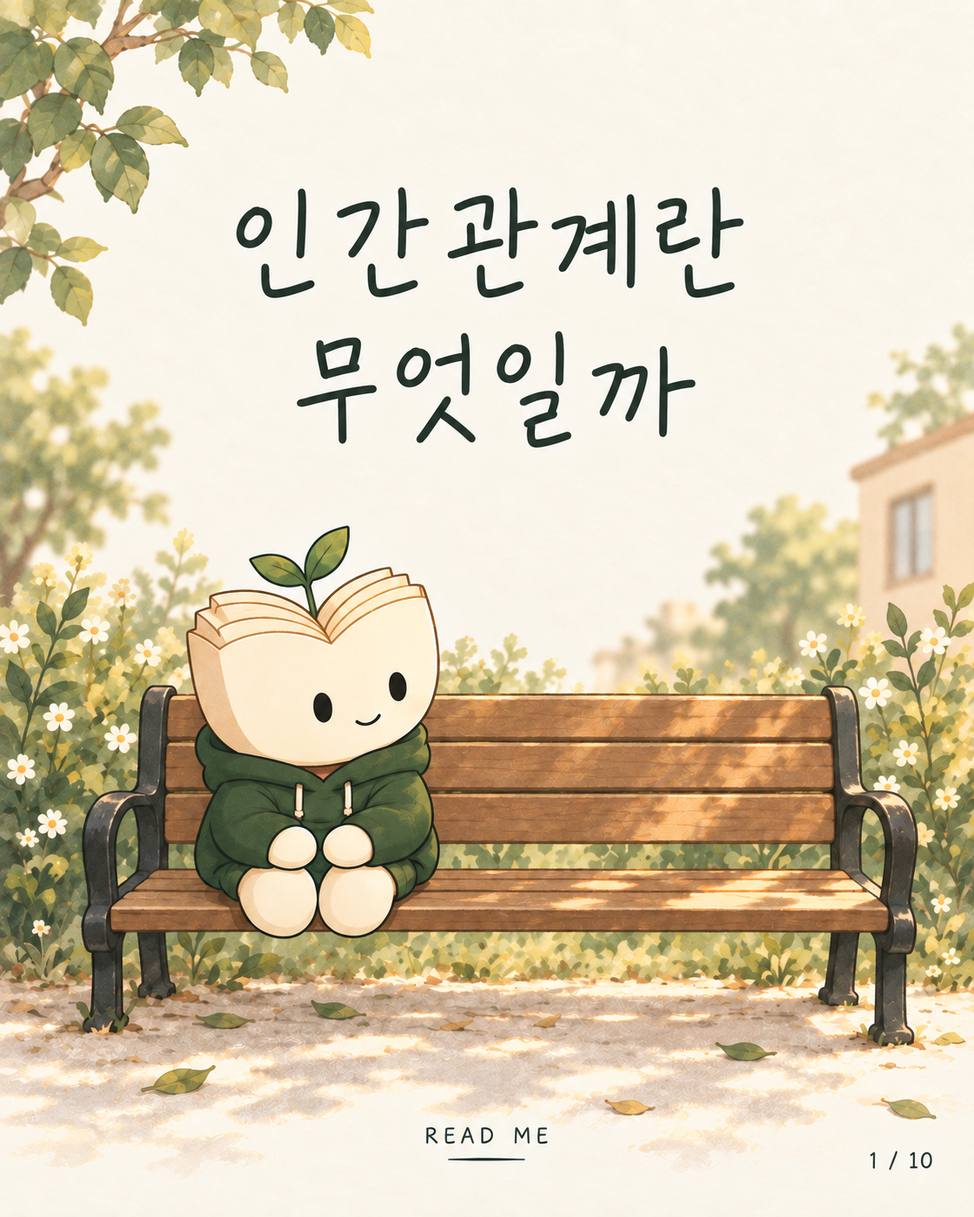
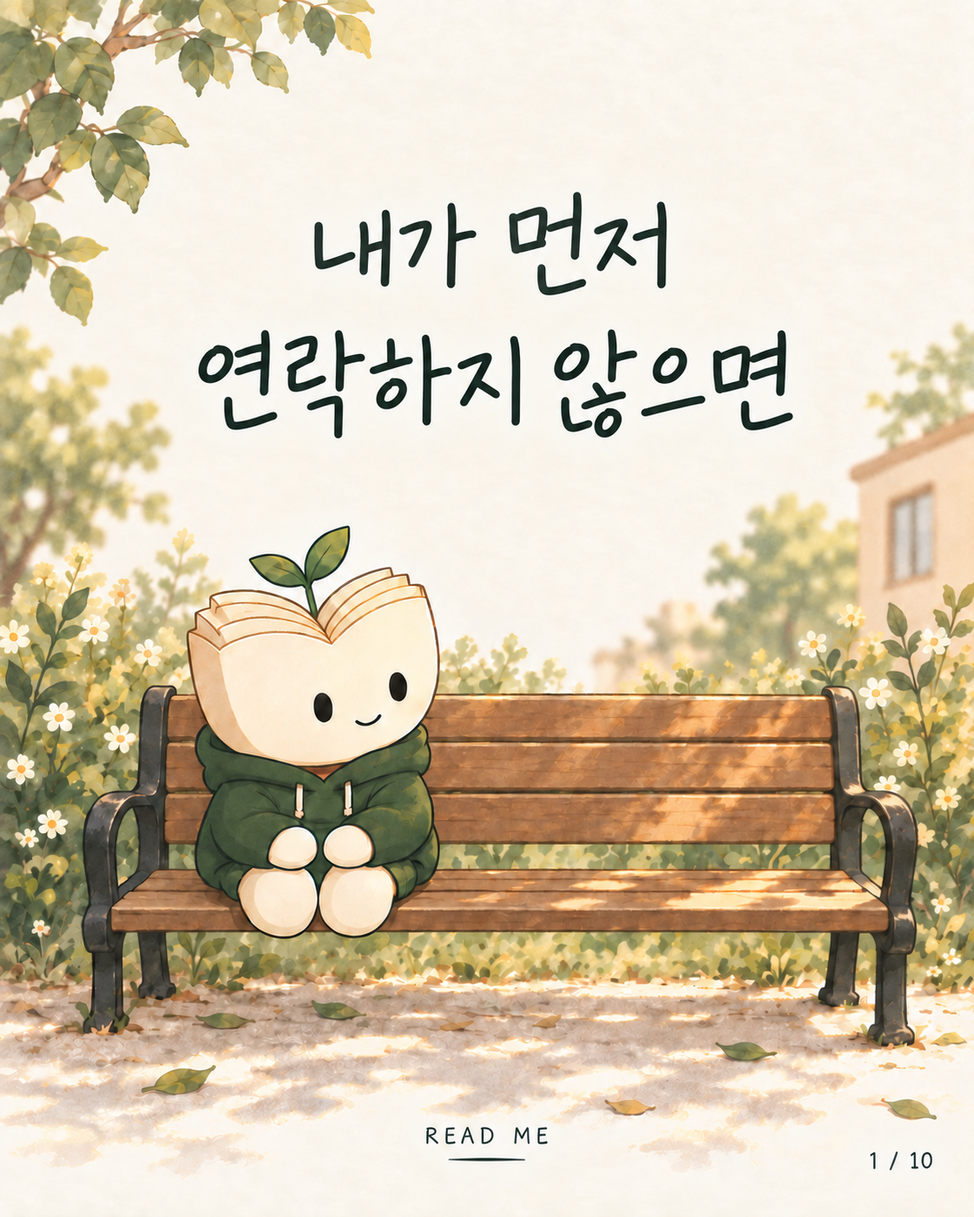
UPDATE. 인스타툰 1편 표지와 미리보기 제목 수정

diff --git a/docs/social/전체-미리보기.html b/docs/social/전체-미리보기.html
@@ -1,4 +1,4 @@
-<!doctype html><html lang="ko"><head><meta charset="utf-8"><meta name="viewport" content="width=device-width,initial-scale=1"><title>READ ME 인스타툰 최종본</title><style>:root{--cream:#f7f3e7;--sand:#eadfc6;--sage:#9bae8f;--forest:#5b6b57;--ink:#3b3a34;--paper:#fffdf7;--muted:#716f65;--line:rgba(59,58,52,.14)}*{box-sizing:border-box}body{margin:0;background:var(--cream);color:var(--ink);font-family:"Noto Sans KR",sans-serif}main{max-width:1120px;margin:auto;padding:32px 24px}a{color:var(--forest);overflow-wrap:anywhere}nav{display:flex;flex-wrap:wrap;gap:12px}nav a{padding:10px;border:1px solid var(--line)}section{margin-top:48px}h1,h2{word-break:keep-all}.grid{display:grid;grid-template-columns:repeat(3,minmax(0,1fr));gap:16px}img{display:block;width:100%;height:auto}@media(max-width:820px){.grid{grid-template-columns:repeat(2,minmax(0,1fr))}}@media(max-width:430px){main{padding:20px 12px}.grid{grid-template-columns:1fr}}[hidden]{display:none!important}nav a[aria-current="page"]{background:var(--forest);color:var(--paper)}nav a:focus-visible{outline:2px solid var(--forest);outline-offset:3px}</style></head><body><main><h1>READ ME 인스타툰 최종본</h1><p>기존 1~8편과 7-1~7-5 확장편 · 총 103장. 각 편은 현재 폴더에서 수정합니다.</p><nav aria-label="편 선택"><a href="#1" aria-current="page">01편</a><a href="#2">02편</a><a href="#3">03편</a><a href="#4">04편</a><a href="#5">05편</a><a href="#6">06편</a><a href="#7">07편</a><a href="#7-1">7-1편</a><a href="#7-2">7-2편</a><a href="#7-3">7-3편</a><a href="#7-4">7-4편</a><a href="#7-5">7-5편</a><a href="#8">08편</a></nav><section id="1"><h2>01-인간관계</h2><p>10장 · <a href="01-인간관계/미리보기.html">이 편 보기</a></p><div class="grid"><a href="01-인간관계/01.png?v=f6530659d1"><img src="01-인간관계/01.png?v=f6530659d1" alt="01-인간관계 1장" loading="lazy"></a><a href="01-인간관계/02.png?v=2af6beccf6"><img src="01-인간관계/02.png?v=2af6beccf6" alt="01-인간관계 2장" loading="lazy"></a><a href="01-인간관계/03.png?v=92ff636abc"><img src="01-인간관계/03.png?v=92ff636abc" alt="01-인간관계 3장" loading="lazy"></a><a href="01-인간관계/04.png?v=a4715f626d"><img src="01-인간관계/04.png?v=a4715f626d" alt="01-인간관계 4장" loading="lazy"></a><a href="01-인간관계/05.png?v=0827a50b40"><img src="01-인간관계/05.png?v=0827a50b40" alt="01-인간관계 5장" loading="lazy"></a><a href="01-인간관계/06.png?v=0fdcc19c5c"><img src="01-인간관계/06.png?v=0fdcc19c5c" alt="01-인간관계 6장" loading="lazy"></a><a href="01-인간관계/07.png?v=472e8e2341"><img src="01-인간관계/07.png?v=472e8e2341" alt="01-인간관계 7장" loading="lazy"></a><a href="01-인간관계/08.png?v=42a75f7eb0"><img src="01-인간관계/08.png?v=42a75f7eb0" alt="01-인간관계 8장" loading="lazy"></a><a href="01-인간관계/09.png?v=77522bc16a"><img src="01-인간관계/09.png?v=77522bc16a" alt="01-인간관계 9장" loading="lazy"></a><a href="01-인간관계/10.png?v=ebeded8296"><img src="01-인간관계/10.png?v=ebeded8296" alt="01-인간관계 10장" loading="lazy"></a></div></section><section id="2" hidden><h2>02-결이맞는사람</h2><p>9장 · <a href="02-결이맞는사람/미리보기.html">이 편 보기</a></p><div class="grid"><a href="02-결이맞는사람/01.png?v=264bd3b8b0"><img src="02-결이맞는사람/01.png?v=264bd3b8b0" alt="02-결이맞는사람 1장" loading="lazy"></a><a href="02-결이맞는사람/02.png?v=4cbba1f130"><img src="02-결이맞는사람/02.png?v=4cbba1f130" alt="02-결이맞는사람 2장" loading="lazy"></a><a href="02-결이맞는사람/03.png?v=fdcf5b74c9"><img src="02-결이맞는사람/03.png?v=fdcf5b74c9" alt="02-결이맞는사람 3장" loading="lazy"></a><a href="02-결이맞는사람/04.png?v=07fdb82af9"><img src="02-결이맞는사람/04.png?v=07fdb82af9" alt="02-결이맞는사람 4장" loading="lazy"></a><a href="02-결이맞는사람/05.png?v=9de6945f77"><img src="02-결이맞는사람/05.png?v=9de6945f77" alt="02-결이맞는사람 5장" loading="lazy"></a><a href="02-결이맞는사람/06.png?v=71379b246e"><img src="02-결이맞는사람/06.png?v=71379b246e" alt="02-결이맞는사람 6장" loading="lazy"></a><a href="02-결이맞는사람/07.png?v=acae4ace5d"><img src="02-결이맞는사람/07.png?v=acae4ace5d" alt="02-결이맞는사람 7장" loading="lazy"></a><a href="02-결이맞는사람/08.png?v=5f58d21de6"><img src="02-결이맞는사람/08.png?v=5f58d21de6" alt="02-결이맞는사람 8장" loading="lazy"></a><a href="02-결이맞는사람/09.png?v=448ca64fa5"><img src="02-결이맞는사람/09.png?v=448ca64fa5" alt="02-결이맞는사람 9장" loading="lazy"></a></div></section><section id="3" hidden><h2>03-같이나아갈사람</h2><p>6장 · <a href="03-같이나아갈사람/미리보기.html">이 편 보기</a></p><div class="grid"><a href="03-같이나아갈사람/01.png?v=ed73741b11"><img src="03-같이나아갈사람/01.png?v=ed73741b11" alt="03-같이나아갈사람 1장" loading="lazy"></a><a href="03-같이나아갈사람/02.png?v=788a7e2821"><img src="03-같이나아갈사람/02.png?v=788a7e2821" alt="03-같이나아갈사람 2장" loading="lazy"></a><a href="03-같이나아갈사람/03.png?v=17601be4a8"><img src="03-같이나아갈사람/03.png?v=17601be4a8" alt="03-같이나아갈사람 3장" loading="lazy"></a><a href="03-같이나아갈사람/04.png?v=f4704627a1"><img src="03-같이나아갈사람/04.png?v=f4704627a1" alt="03-같이나아갈사람 4장" loading="lazy"></a><a href="03-같이나아갈사람/05.png?v=55ba4e1e06"><img src="03-같이나아갈사람/05.png?v=55ba4e1e06" alt="03-같이나아갈사람 5장" loading="lazy"></a><a href="03-같이나아갈사람/06.png?v=077c74721f"><img src="03-같이나아갈사람/06.png?v=077c74721f" alt="03-같이나아갈사람 6장" loading="lazy"></a></div></section><section id="4" hidden><h2>04-힘이되는사람</h2><p>7장 · <a href="04-힘이되는사람/미리보기.html">이 편 보기</a></p><div class="grid"><a href="04-힘이되는사람/01.png?v=8100d94b91"><img src="04-힘이되는사람/01.png?v=8100d94b91" alt="04-힘이되는사람 1장" loading="lazy"></a><a href="04-힘이되는사람/02.png?v=bfbad25659"><img src="04-힘이되는사람/02.png?v=bfbad25659" alt="04-힘이되는사람 2장" loading="lazy"></a><a href="04-힘이되는사람/03.png?v=6f98d75c57"><img src="04-힘이되는사람/03.png?v=6f98d75c57" alt="04-힘이되는사람 3장" loading="lazy"></a><a href="04-힘이되는사람/04.png?v=b64bd8e8cb"><img src="04-힘이되는사람/04.png?v=b64bd8e8cb" alt="04-힘이되는사람 4장" loading="lazy"></a><a href="04-힘이되는사람/05.png?v=ed8942b510"><img src="04-힘이되는사람/05.png?v=ed8942b510" alt="04-힘이되는사람 5장" loading="lazy"></a><a href="04-힘이되는사람/06.png?v=f673d6f54d"><img src="04-힘이되는사람/06.png?v=f673d6f54d" alt="04-힘이되는사람 6장" loading="lazy"></a><a href="04-힘이되는사람/07.png?v=acf8b9f665"><img src="04-힘이되는사람/07.png?v=acf8b9f665" alt="04-힘이되는사람 7장" loading="lazy"></a></div></section><section id="5" hidden><h2>05-환경의중요성</h2><p>9장 · <a href="05-환경의중요성/미리보기.html">이 편 보기</a></p><div class="grid"><a href="05-환경의중요성/01.png?v=124d4b9f5c"><img src="05-환경의중요성/01.png?v=124d4b9f5c" alt="05-환경의중요성 1장" loading="lazy"></a><a href="05-환경의중요성/02.png?v=54013d81f8"><img src="05-환경의중요성/02.png?v=54013d81f8" alt="05-환경의중요성 2장" loading="lazy"></a><a href="05-환경의중요성/03.png?v=f58ab16eda"><img src="05-환경의중요성/03.png?v=f58ab16eda" alt="05-환경의중요성 3장" loading="lazy"></a><a href="05-환경의중요성/04.png?v=979f421f6f"><img src="05-환경의중요성/04.png?v=979f421f6f" alt="05-환경의중요성 4장" loading="lazy"></a><a href="05-환경의중요성/05.png?v=1b3de04ac8"><img src="05-환경의중요성/05.png?v=1b3de04ac8" alt="05-환경의중요성 5장" loading="lazy"></a><a href="05-환경의중요성/06.png?v=ff394ed652"><img src="05-환경의중요성/06.png?v=ff394ed652" alt="05-환경의중요성 6장" loading="lazy"></a><a href="05-환경의중요성/07.png?v=fe9d3bcd30"><img src="05-환경의중요성/07.png?v=fe9d3bcd30" alt="05-환경의중요성 7장" loading="lazy"></a><a href="05-환경의중요성/08.png?v=44aca42c69"><img src="05-환경의중요성/08.png?v=44aca42c69" alt="05-환경의중요성 8장" loading="lazy"></a><a href="05-환경의중요성/09.png?v=e9567877d0"><img src="05-환경의중요성/09.png?v=e9567877d0" alt="05-환경의중요성 9장" loading="lazy"></a></div></section><section id="6" hidden><h2>06-직접만든이유</h2><p>7장 · <a href="06-직접만든이유/미리보기.html">이 편 보기</a></p><div class="grid"><a href="06-직접만든이유/01.png?v=6f16d05a30"><img src="06-직접만든이유/01.png?v=6f16d05a30" alt="06-직접만든이유 1장" loading="lazy"></a><a href="06-직접만든이유/02.png?v=5da92f9602"><img src="06-직접만든이유/02.png?v=5da92f9602" alt="06-직접만든이유 2장" loading="lazy"></a><a href="06-직접만든이유/03.png?v=ef615db151"><img src="06-직접만든이유/03.png?v=ef615db151" alt="06-직접만든이유 3장" loading="lazy"></a><a href="06-직접만든이유/04.png?v=55a07de5a8"><img src="06-직접만든이유/04.png?v=55a07de5a8" alt="06-직접만든이유 4장" loading="lazy"></a><a href="06-직접만든이유/05.png?v=c209f0e74f"><img src="06-직접만든이유/05.png?v=c209f0e74f" alt="06-직접만든이유 5장" loading="lazy"></a><a href="06-직접만든이유/06.png?v=84f44f9c7f"><img src="06-직접만든이유/06.png?v=84f44f9c7f" alt="06-직접만든이유 6장" loading="lazy"></a><a href="06-직접만든이유/07.png?v=9ae2be7dd7"><img src="06-직접만든이유/07.png?v=9ae2be7dd7" alt="06-직접만든이유 7장" loading="lazy"></a></div></section><section id="7" hidden><h2>07-마음이채워지는대화</h2><p>7장 · <a href="07-마음이채워지는대화/미리보기.html">이 편 보기</a></p><div class="grid"><a href="07-마음이채워지는대화/01.png?v=39b0405240"><img src="07-마음이채워지는대화/01.png?v=39b0405240" alt="07-마음이채워지는대화 1장" loading="lazy"></a><a href="07-마음이채워지는대화/02.png?v=e5f816d622"><img src="07-마음이채워지는대화/02.png?v=e5f816d622" alt="07-마음이채워지는대화 2장" loading="lazy"></a><a href="07-마음이채워지는대화/03.png?v=ae685cedb3"><img src="07-마음이채워지는대화/03.png?v=ae685cedb3" alt="07-마음이채워지는대화 3장" loading="lazy"></a><a href="07-마음이채워지는대화/04.png?v=a63e07f592"><img src="07-마음이채워지는대화/04.png?v=a63e07f592" alt="07-마음이채워지는대화 4장" loading="lazy"></a><a href="07-마음이채워지는대화/05.png?v=4ca097f0b0"><img src="07-마음이채워지는대화/05.png?v=4ca097f0b0" alt="07-마음이채워지는대화 5장" loading="lazy"></a><a href="07-마음이채워지는대화/06.png?v=09a7210a58"><img src="07-마음이채워지는대화/06.png?v=09a7210a58" alt="07-마음이채워지는대화 6장" loading="lazy"></a><a href="07-마음이채워지는대화/07.png?v=7f04851a70"><img src="07-마음이채워지는대화/07.png?v=7f04851a70" alt="07-마음이채워지는대화 7장" loading="lazy"></a></div></section><section id="7-1" hidden><h2>7-1-친한사람에게도-못했던말을-꺼냈다</h2><p>8장 · <a href="7-1-친한사람에게도-못했던말을-꺼냈다/미리보기.html">이 편 보기</a></p><div class="grid"><a href="7-1-친한사람에게도-못했던말을-꺼냈다/01.png?v=64ef2f2fa5"><img src="7-1-친한사람에게도-못했던말을-꺼냈다/01.png?v=64ef2f2fa5" alt="7-1-친한사람에게도-못했던말을-꺼냈다 1장" loading="lazy"></a><a href="7-1-친한사람에게도-못했던말을-꺼냈다/02.png?v=268a2c60f3"><img src="7-1-친한사람에게도-못했던말을-꺼냈다/02.png?v=268a2c60f3" alt="7-1-친한사람에게도-못했던말을-꺼냈다 2장" loading="lazy"></a><a href="7-1-친한사람에게도-못했던말을-꺼냈다/03.png?v=546cfdae7e"><img src="7-1-친한사람에게도-못했던말을-꺼냈다/03.png?v=546cfdae7e" alt="7-1-친한사람에게도-못했던말을-꺼냈다 3장" loading="lazy"></a><a href="7-1-친한사람에게도-못했던말을-꺼냈다/04.png?v=ec3f204fc7"><img src="7-1-친한사람에게도-못했던말을-꺼냈다/04.png?v=ec3f204fc7" alt="7-1-친한사람에게도-못했던말을-꺼냈다 4장" loading="lazy"></a><a href="7-1-친한사람에게도-못했던말을-꺼냈다/05.png?v=fe61a55f8c"><img src="7-1-친한사람에게도-못했던말을-꺼냈다/05.png?v=fe61a55f8c" alt="7-1-친한사람에게도-못했던말을-꺼냈다 5장" loading="lazy"></a><a href="7-1-친한사람에게도-못했던말을-꺼냈다/06.png?v=9ee9529ecf"><img src="7-1-친한사람에게도-못했던말을-꺼냈다/06.png?v=9ee9529ecf" alt="7-1-친한사람에게도-못했던말을-꺼냈다 6장" loading="lazy"></a><a href="7-1-친한사람에게도-못했던말을-꺼냈다/07.png?v=048ae1f4be"><img src="7-1-친한사람에게도-못했던말을-꺼냈다/07.png?v=048ae1f4be" alt="7-1-친한사람에게도-못했던말을-꺼냈다 7장" loading="lazy"></a><a href="7-1-친한사람에게도-못했던말을-꺼냈다/08.png?v=e48b834b40"><img src="7-1-친한사람에게도-못했던말을-꺼냈다/08.png?v=e48b834b40" alt="7-1-친한사람에게도-못했던말을-꺼냈다 8장" loading="lazy"></a></div></section><section id="7-2" hidden><h2>7-2-말하고나서야-내마음을-알았다</h2><p>8장 · <a href="7-2-말하고나서야-내마음을-알았다/미리보기.html">이 편 보기</a></p><div class="grid"><a href="7-2-말하고나서야-내마음을-알았다/01.png?v=459466cc53"><img src="7-2-말하고나서야-내마음을-알았다/01.png?v=459466cc53" alt="7-2-말하고나서야-내마음을-알았다 1장" loading="lazy"></a><a href="7-2-말하고나서야-내마음을-알았다/02.png?v=de228fa564"><img src="7-2-말하고나서야-내마음을-알았다/02.png?v=de228fa564" alt="7-2-말하고나서야-내마음을-알았다 2장" loading="lazy"></a><a href="7-2-말하고나서야-내마음을-알았다/03.png?v=a2d7ab2a9d"><img src="7-2-말하고나서야-내마음을-알았다/03.png?v=a2d7ab2a9d" alt="7-2-말하고나서야-내마음을-알았다 3장" loading="lazy"></a><a href="7-2-말하고나서야-내마음을-알았다/04.png?v=ffc8d2dd8b"><img src="7-2-말하고나서야-내마음을-알았다/04.png?v=ffc8d2dd8b" alt="7-2-말하고나서야-내마음을-알았다 4장" loading="lazy"></a><a href="7-2-말하고나서야-내마음을-알았다/05.png?v=e9c60defa1"><img src="7-2-말하고나서야-내마음을-알았다/05.png?v=e9c60defa1" alt="7-2-말하고나서야-내마음을-알았다 5장" loading="lazy"></a><a href="7-2-말하고나서야-내마음을-알았다/06.png?v=620fa4451c"><img src="7-2-말하고나서야-내마음을-알았다/06.png?v=620fa4451c" alt="7-2-말하고나서야-내마음을-알았다 6장" loading="lazy"></a><a href="7-2-말하고나서야-내마음을-알았다/07.png?v=569dfd7099"><img src="7-2-말하고나서야-내마음을-알았다/07.png?v=569dfd7099" alt="7-2-말하고나서야-내마음을-알았다 7장" loading="lazy"></a><a href="7-2-말하고나서야-내마음을-알았다/08.png?v=41411ef812"><img src="7-2-말하고나서야-내마음을-알았다/08.png?v=41411ef812" alt="7-2-말하고나서야-내마음을-알았다 8장" loading="lazy"></a></div></section><section id="7-3" hidden><h2>7-3-생각이다른데도-대화가편했다</h2><p>8장 · <a href="7-3-생각이다른데도-대화가편했다/미리보기.html">이 편 보기</a></p><div class="grid"><a href="7-3-생각이다른데도-대화가편했다/01.png?v=4daec09531"><img src="7-3-생각이다른데도-대화가편했다/01.png?v=4daec09531" alt="7-3-생각이다른데도-대화가편했다 1장" loading="lazy"></a><a href="7-3-생각이다른데도-대화가편했다/02.png?v=5244f608b3"><img src="7-3-생각이다른데도-대화가편했다/02.png?v=5244f608b3" alt="7-3-생각이다른데도-대화가편했다 2장" loading="lazy"></a><a href="7-3-생각이다른데도-대화가편했다/03.png?v=17dc23714d"><img src="7-3-생각이다른데도-대화가편했다/03.png?v=17dc23714d" alt="7-3-생각이다른데도-대화가편했다 3장" loading="lazy"></a><a href="7-3-생각이다른데도-대화가편했다/04.png?v=2b78159773"><img src="7-3-생각이다른데도-대화가편했다/04.png?v=2b78159773" alt="7-3-생각이다른데도-대화가편했다 4장" loading="lazy"></a><a href="7-3-생각이다른데도-대화가편했다/05.png?v=b54261920a"><img src="7-3-생각이다른데도-대화가편했다/05.png?v=b54261920a" alt="7-3-생각이다른데도-대화가편했다 5장" loading="lazy"></a><a href="7-3-생각이다른데도-대화가편했다/06.png?v=5a5409cac8"><img src="7-3-생각이다른데도-대화가편했다/06.png?v=5a5409cac8" alt="7-3-생각이다른데도-대화가편했다 6장" loading="lazy"></a><a href="7-3-생각이다른데도-대화가편했다/07.png?v=15a74822e1"><img src="7-3-생각이다른데도-대화가편했다/07.png?v=15a74822e1" alt="7-3-생각이다른데도-대화가편했다 7장" loading="lazy"></a><a href="7-3-생각이다른데도-대화가편했다/08.png?v=3c578579ec"><img src="7-3-생각이다른데도-대화가편했다/08.png?v=3c578579ec" alt="7-3-생각이다른데도-대화가편했다 8장" loading="lazy"></a></div></section><section id="7-4" hidden><h2>7-4-쌓아두던책을-펼치게됐다</h2><p>8장 · <a href="7-4-쌓아두던책을-펼치게됐다/미리보기.html">이 편 보기</a></p><div class="grid"><a href="7-4-쌓아두던책을-펼치게됐다/01.png?v=db281463e6"><img src="7-4-쌓아두던책을-펼치게됐다/01.png?v=db281463e6" alt="7-4-쌓아두던책을-펼치게됐다 1장" loading="lazy"></a><a href="7-4-쌓아두던책을-펼치게됐다/02.png?v=2eeb449bf7"><img src="7-4-쌓아두던책을-펼치게됐다/02.png?v=2eeb449bf7" alt="7-4-쌓아두던책을-펼치게됐다 2장" loading="lazy"></a><a href="7-4-쌓아두던책을-펼치게됐다/03.png?v=eb45c9f756"><img src="7-4-쌓아두던책을-펼치게됐다/03.png?v=eb45c9f756" alt="7-4-쌓아두던책을-펼치게됐다 3장" loading="lazy"></a><a href="7-4-쌓아두던책을-펼치게됐다/04.png?v=621b312949"><img src="7-4-쌓아두던책을-펼치게됐다/04.png?v=621b312949" alt="7-4-쌓아두던책을-펼치게됐다 4장" loading="lazy"></a><a href="7-4-쌓아두던책을-펼치게됐다/05.png?v=038d7d4cd8"><img src="7-4-쌓아두던책을-펼치게됐다/05.png?v=038d7d4cd8" alt="7-4-쌓아두던책을-펼치게됐다 5장" loading="lazy"></a><a href="7-4-쌓아두던책을-펼치게됐다/06.png?v=ff6a914471"><img src="7-4-쌓아두던책을-펼치게됐다/06.png?v=ff6a914471" alt="7-4-쌓아두던책을-펼치게됐다 6장" loading="lazy"></a><a href="7-4-쌓아두던책을-펼치게됐다/07.png?v=88f6fe236f"><img src="7-4-쌓아두던책을-펼치게됐다/07.png?v=88f6fe236f" alt="7-4-쌓아두던책을-펼치게됐다 7장" loading="lazy"></a><a href="7-4-쌓아두던책을-펼치게됐다/08.png?v=d5367575fe"><img src="7-4-쌓아두던책을-펼치게됐다/08.png?v=d5367575fe" alt="7-4-쌓아두던책을-펼치게됐다 8장" loading="lazy"></a></div></section><section id="7-5" hidden><h2>7-5-혼자였다면-못했을생각들이-생겼다</h2><p>9장 · <a href="7-5-혼자였다면-못했을생각들이-생겼다/미리보기.html">이 편 보기</a></p><div class="grid"><a href="7-5-혼자였다면-못했을생각들이-생겼다/01.png?v=beee2837f3"><img src="7-5-혼자였다면-못했을생각들이-생겼다/01.png?v=beee2837f3" alt="7-5-혼자였다면-못했을생각들이-생겼다 1장" loading="lazy"></a><a href="7-5-혼자였다면-못했을생각들이-생겼다/02.png?v=dbdb467c90"><img src="7-5-혼자였다면-못했을생각들이-생겼다/02.png?v=dbdb467c90" alt="7-5-혼자였다면-못했을생각들이-생겼다 2장" loading="lazy"></a><a href="7-5-혼자였다면-못했을생각들이-생겼다/03.png?v=ce06197ff1"><img src="7-5-혼자였다면-못했을생각들이-생겼다/03.png?v=ce06197ff1" alt="7-5-혼자였다면-못했을생각들이-생겼다 3장" loading="lazy"></a><a href="7-5-혼자였다면-못했을생각들이-생겼다/04.png?v=ff2d36201b"><img src="7-5-혼자였다면-못했을생각들이-생겼다/04.png?v=ff2d36201b" alt="7-5-혼자였다면-못했을생각들이-생겼다 4장" loading="lazy"></a><a href="7-5-혼자였다면-못했을생각들이-생겼다/05.png?v=ee09d364d9"><img src="7-5-혼자였다면-못했을생각들이-생겼다/05.png?v=ee09d364d9" alt="7-5-혼자였다면-못했을생각들이-생겼다 5장" loading="lazy"></a><a href="7-5-혼자였다면-못했을생각들이-생겼다/06.png?v=91441a97fa"><img src="7-5-혼자였다면-못했을생각들이-생겼다/06.png?v=91441a97fa" alt="7-5-혼자였다면-못했을생각들이-생겼다 6장" loading="lazy"></a><a href="7-5-혼자였다면-못했을생각들이-생겼다/07.png?v=6c60c5229f"><img src="7-5-혼자였다면-못했을생각들이-생겼다/07.png?v=6c60c5229f" alt="7-5-혼자였다면-못했을생각들이-생겼다 7장" loading="lazy"></a><a href="7-5-혼자였다면-못했을생각들이-생겼다/08.png?v=36e4ffed61"><img src="7-5-혼자였다면-못했을생각들이-생겼다/08.png?v=36e4ffed61" alt="7-5-혼자였다면-못했을생각들이-생겼다 8장" loading="lazy"></a><a href="7-5-혼자였다면-못했을생각들이-생겼다/09.png?v=bb17efc276"><img src="7-5-혼자였다면-못했을생각들이-생겼다/09.png?v=bb17efc276" alt="7-5-혼자였다면-못했을생각들이-생겼다 9장" loading="lazy"></a></div></section><section id="8" hidden><h2>8편 · 독서모임을 하고 생긴 변화</h2><p>7장 · <a href="08-일상의변화/미리보기.html">이 편 보기</a></p><div class="grid"><a href="08-일상의변화/01.png?v=23f6775a01"><img src="08-일상의변화/01.png?v=23f6775a01" alt="08-일상의변화 1장" loading="lazy"></a><a href="08-일상의변화/02.png?v=1e1b2d4c82"><img src="08-일상의변화/02.png?v=1e1b2d4c82" alt="08-일상의변화 2장" loading="lazy"></a><a href="08-일상의변화/03.png?v=e849ab9551"><img src="08-일상의변화/03.png?v=e849ab9551" alt="08-일상의변화 3장" loading="lazy"></a><a href="08-일상의변화/04.png?v=348339682b"><img src="08-일상의변화/04.png?v=348339682b" alt="08-일상의변화 4장" loading="lazy"></a><a href="08-일상의변화/05.png?v=f0ec7dada1"><img src="08-일상의변화/05.png?v=f0ec7dada1" alt="08-일상의변화 5장" loading="lazy"></a><a href="08-일상의변화/06.png?v=713523d819"><img src="08-일상의변화/06.png?v=713523d819" alt="08-일상의변화 6장" loading="lazy"></a><a href="08-일상의변화/07.png?v=fcbc16c5d3"><img src="08-일상의변화/07.png?v=fcbc16c5d3" alt="08-일상의변화 7장" loading="lazy"></a></div></section></main><script>
+<!doctype html><html lang="ko"><head><meta charset="utf-8"><meta name="viewport" content="width=device-width,initial-scale=1"><title>READ ME 인스타툰 최종본</title><style>:root{--cream:#f7f3e7;--sand:#eadfc6;--sage:#9bae8f;--forest:#5b6b57;--ink:#3b3a34;--paper:#fffdf7;--muted:#716f65;--line:rgba(59,58,52,.14)}*{box-sizing:border-box}body{margin:0;background:var(--cream);color:var(--ink);font-family:"Noto Sans KR",sans-serif}main{max-width:1120px;margin:auto;padding:32px 24px}a{color:var(--forest);overflow-wrap:anywhere}nav{display:flex;flex-wrap:wrap;gap:12px}nav a{padding:10px;border:1px solid var(--line)}section{margin-top:48px}h1,h2{word-break:keep-all}.grid{display:grid;grid-template-columns:repeat(3,minmax(0,1fr));gap:16px}img{display:block;width:100%;height:auto}@media(max-width:820px){.grid{grid-template-columns:repeat(2,minmax(0,1fr))}}@media(max-width:430px){main{padding:20px 12px}.grid{grid-template-columns:1fr}}[hidden]{display:none!important}nav a[aria-current="page"]{background:var(--forest);color:var(--paper)}nav a:focus-visible{outline:2px solid var(--forest);outline-offset:3px}</style></head><body><main><h1>READ ME 인스타툰 최종본</h1><p>기존 1~8편과 7-1~7-5 확장편 · 총 103장. 각 편은 현재 폴더에서 수정합니다.</p><nav aria-label="편 선택"><a href="#1" aria-current="page">01편</a><a href="#2">02편</a><a href="#3">03편</a><a href="#4">04편</a><a href="#5">05편</a><a href="#6">06편</a><a href="#7">07편</a><a href="#7-1">7-1편</a><a href="#7-2">7-2편</a><a href="#7-3">7-3편</a><a href="#7-4">7-4편</a><a href="#7-5">7-5편</a><a href="#8">08편</a></nav><section id="1"><h2>1편 · 내가 먼저 연락하지 않으면</h2><p>10장 · <a href="01-인간관계/미리보기.html">이 편 보기</a></p><div class="grid"><a href="01-인간관계/01.png?v=9c29254c10"><img src="01-인간관계/01.png?v=9c29254c10" alt="01-인간관계 1장" loading="lazy"></a><a href="01-인간관계/02.png?v=2af6beccf6"><img src="01-인간관계/02.png?v=2af6beccf6" alt="01-인간관계 2장" loading="lazy"></a><a href="01-인간관계/03.png?v=92ff636abc"><img src="01-인간관계/03.png?v=92ff636abc" alt="01-인간관계 3장" loading="lazy"></a><a href="01-인간관계/04.png?v=a4715f626d"><img src="01-인간관계/04.png?v=a4715f626d" alt="01-인간관계 4장" loading="lazy"></a><a href="01-인간관계/05.png?v=0827a50b40"><img src="01-인간관계/05.png?v=0827a50b40" alt="01-인간관계 5장" loading="lazy"></a><a href="01-인간관계/06.png?v=0fdcc19c5c"><img src="01-인간관계/06.png?v=0fdcc19c5c" alt="01-인간관계 6장" loading="lazy"></a><a href="01-인간관계/07.png?v=472e8e2341"><img src="01-인간관계/07.png?v=472e8e2341" alt="01-인간관계 7장" loading="lazy"></a><a href="01-인간관계/08.png?v=42a75f7eb0"><img src="01-인간관계/08.png?v=42a75f7eb0" alt="01-인간관계 8장" loading="lazy"></a><a href="01-인간관계/09.png?v=77522bc16a"><img src="01-인간관계/09.png?v=77522bc16a" alt="01-인간관계 9장" loading="lazy"></a><a href="01-인간관계/10.png?v=ebeded8296"><img src="01-인간관계/10.png?v=ebeded8296" alt="01-인간관계 10장" loading="lazy"></a></div></section><section id="2" hidden><h2>02-결이맞는사람</h2><p>9장 · <a href="02-결이맞는사람/미리보기.html">이 편 보기</a></p><div class="grid"><a href="02-결이맞는사람/01.png?v=264bd3b8b0"><img src="02-결이맞는사람/01.png?v=264bd3b8b0" alt="02-결이맞는사람 1장" loading="lazy"></a><a href="02-결이맞는사람/02.png?v=4cbba1f130"><img src="02-결이맞는사람/02.png?v=4cbba1f130" alt="02-결이맞는사람 2장" loading="lazy"></a><a href="02-결이맞는사람/03.png?v=fdcf5b74c9"><img src="02-결이맞는사람/03.png?v=fdcf5b74c9" alt="02-결이맞는사람 3장" loading="lazy"></a><a href="02-결이맞는사람/04.png?v=07fdb82af9"><img src="02-결이맞는사람/04.png?v=07fdb82af9" alt="02-결이맞는사람 4장" loading="lazy"></a><a href="02-결이맞는사람/05.png?v=9de6945f77"><img src="02-결이맞는사람/05.png?v=9de6945f77" alt="02-결이맞는사람 5장" loading="lazy"></a><a href="02-결이맞는사람/06.png?v=71379b246e"><img src="02-결이맞는사람/06.png?v=71379b246e" alt="02-결이맞는사람 6장" loading="lazy"></a><a href="02-결이맞는사람/07.png?v=acae4ace5d"><img src="02-결이맞는사람/07.png?v=acae4ace5d" alt="02-결이맞는사람 7장" loading="lazy"></a><a href="02-결이맞는사람/08.png?v=5f58d21de6"><img src="02-결이맞는사람/08.png?v=5f58d21de6" alt="02-결이맞는사람 8장" loading="lazy"></a><a href="02-결이맞는사람/09.png?v=448ca64fa5"><img src="02-결이맞는사람/09.png?v=448ca64fa5" alt="02-결이맞는사람 9장" loading="lazy"></a></div></section><section id="3" hidden><h2>03-같이나아갈사람</h2><p>6장 · <a href="03-같이나아갈사람/미리보기.html">이 편 보기</a></p><div class="grid"><a href="03-같이나아갈사람/01.png?v=ed73741b11"><img src="03-같이나아갈사람/01.png?v=ed73741b11" alt="03-같이나아갈사람 1장" loading="lazy"></a><a href="03-같이나아갈사람/02.png?v=788a7e2821"><img src="03-같이나아갈사람/02.png?v=788a7e2821" alt="03-같이나아갈사람 2장" loading="lazy"></a><a href="03-같이나아갈사람/03.png?v=17601be4a8"><img src="03-같이나아갈사람/03.png?v=17601be4a8" alt="03-같이나아갈사람 3장" loading="lazy"></a><a href="03-같이나아갈사람/04.png?v=f4704627a1"><img src="03-같이나아갈사람/04.png?v=f4704627a1" alt="03-같이나아갈사람 4장" loading="lazy"></a><a href="03-같이나아갈사람/05.png?v=55ba4e1e06"><img src="03-같이나아갈사람/05.png?v=55ba4e1e06" alt="03-같이나아갈사람 5장" loading="lazy"></a><a href="03-같이나아갈사람/06.png?v=077c74721f"><img src="03-같이나아갈사람/06.png?v=077c74721f" alt="03-같이나아갈사람 6장" loading="lazy"></a></div></section><section id="4" hidden><h2>04-힘이되는사람</h2><p>7장 · <a href="04-힘이되는사람/미리보기.html">이 편 보기</a></p><div class="grid"><a href="04-힘이되는사람/01.png?v=8100d94b91"><img src="04-힘이되는사람/01.png?v=8100d94b91" alt="04-힘이되는사람 1장" loading="lazy"></a><a href="04-힘이되는사람/02.png?v=bfbad25659"><img src="04-힘이되는사람/02.png?v=bfbad25659" alt="04-힘이되는사람 2장" loading="lazy"></a><a href="04-힘이되는사람/03.png?v=6f98d75c57"><img src="04-힘이되는사람/03.png?v=6f98d75c57" alt="04-힘이되는사람 3장" loading="lazy"></a><a href="04-힘이되는사람/04.png?v=b64bd8e8cb"><img src="04-힘이되는사람/04.png?v=b64bd8e8cb" alt="04-힘이되는사람 4장" loading="lazy"></a><a href="04-힘이되는사람/05.png?v=ed8942b510"><img src="04-힘이되는사람/05.png?v=ed8942b510" alt="04-힘이되는사람 5장" loading="lazy"></a><a href="04-힘이되는사람/06.png?v=f673d6f54d"><img src="04-힘이되는사람/06.png?v=f673d6f54d" alt="04-힘이되는사람 6장" loading="lazy"></a><a href="04-힘이되는사람/07.png?v=acf8b9f665"><img src="04-힘이되는사람/07.png?v=acf8b9f665" alt="04-힘이되는사람 7장" loading="lazy"></a></div></section><section id="5" hidden><h2>05-환경의중요성</h2><p>9장 · <a href="05-환경의중요성/미리보기.html">이 편 보기</a></p><div class="grid"><a href="05-환경의중요성/01.png?v=124d4b9f5c"><img src="05-환경의중요성/01.png?v=124d4b9f5c" alt="05-환경의중요성 1장" loading="lazy"></a><a href="05-환경의중요성/02.png?v=54013d81f8"><img src="05-환경의중요성/02.png?v=54013d81f8" alt="05-환경의중요성 2장" loading="lazy"></a><a href="05-환경의중요성/03.png?v=f58ab16eda"><img src="05-환경의중요성/03.png?v=f58ab16eda" alt="05-환경의중요성 3장" loading="lazy"></a><a href="05-환경의중요성/04.png?v=979f421f6f"><img src="05-환경의중요성/04.png?v=979f421f6f" alt="05-환경의중요성 4장" loading="lazy"></a><a href="05-환경의중요성/05.png?v=1b3de04ac8"><img src="05-환경의중요성/05.png?v=1b3de04ac8" alt="05-환경의중요성 5장" loading="lazy"></a><a href="05-환경의중요성/06.png?v=ff394ed652"><img src="05-환경의중요성/06.png?v=ff394ed652" alt="05-환경의중요성 6장" loading="lazy"></a><a href="05-환경의중요성/07.png?v=fe9d3bcd30"><img src="05-환경의중요성/07.png?v=fe9d3bcd30" alt="05-환경의중요성 7장" loading="lazy"></a><a href="05-환경의중요성/08.png?v=44aca42c69"><img src="05-환경의중요성/08.png?v=44aca42c69" alt="05-환경의중요성 8장" loading="lazy"></a><a href="05-환경의중요성/09.png?v=e9567877d0"><img src="05-환경의중요성/09.png?v=e9567877d0" alt="05-환경의중요성 9장" loading="lazy"></a></div></section><section id="6" hidden><h2>06-직접만든이유</h2><p>7장 · <a href="06-직접만든이유/미리보기.html">이 편 보기</a></p><div class="grid"><a href="06-직접만든이유/01.png?v=6f16d05a30"><img src="06-직접만든이유/01.png?v=6f16d05a30" alt="06-직접만든이유 1장" loading="lazy"></a><a href="06-직접만든이유/02.png?v=5da92f9602"><img src="06-직접만든이유/02.png?v=5da92f9602" alt="06-직접만든이유 2장" loading="lazy"></a><a href="06-직접만든이유/03.png?v=ef615db151"><img src="06-직접만든이유/03.png?v=ef615db151" alt="06-직접만든이유 3장" loading="lazy"></a><a href="06-직접만든이유/04.png?v=55a07de5a8"><img src="06-직접만든이유/04.png?v=55a07de5a8" alt="06-직접만든이유 4장" loading="lazy"></a><a href="06-직접만든이유/05.png?v=c209f0e74f"><img src="06-직접만든이유/05.png?v=c209f0e74f" alt="06-직접만든이유 5장" loading="lazy"></a><a href="06-직접만든이유/06.png?v=84f44f9c7f"><img src="06-직접만든이유/06.png?v=84f44f9c7f" alt="06-직접만든이유 6장" loading="lazy"></a><a href="06-직접만든이유/07.png?v=9ae2be7dd7"><img src="06-직접만든이유/07.png?v=9ae2be7dd7" alt="06-직접만든이유 7장" loading="lazy"></a></div></section><section id="7" hidden><h2>07-마음이채워지는대화</h2><p>7장 · <a href="07-마음이채워지는대화/미리보기.html">이 편 보기</a></p><div class="grid"><a href="07-마음이채워지는대화/01.png?v=39b0405240"><img src="07-마음이채워지는대화/01.png?v=39b0405240" alt="07-마음이채워지는대화 1장" loading="lazy"></a><a href="07-마음이채워지는대화/02.png?v=e5f816d622"><img src="07-마음이채워지는대화/02.png?v=e5f816d622" alt="07-마음이채워지는대화 2장" loading="lazy"></a><a href="07-마음이채워지는대화/03.png?v=ae685cedb3"><img src="07-마음이채워지는대화/03.png?v=ae685cedb3" alt="07-마음이채워지는대화 3장" loading="lazy"></a><a href="07-마음이채워지는대화/04.png?v=a63e07f592"><img src="07-마음이채워지는대화/04.png?v=a63e07f592" alt="07-마음이채워지는대화 4장" loading="lazy"></a><a href="07-마음이채워지는대화/05.png?v=4ca097f0b0"><img src="07-마음이채워지는대화/05.png?v=4ca097f0b0" alt="07-마음이채워지는대화 5장" loading="lazy"></a><a href="07-마음이채워지는대화/06.png?v=09a7210a58"><img src="07-마음이채워지는대화/06.png?v=09a7210a58" alt="07-마음이채워지는대화 6장" loading="lazy"></a><a href="07-마음이채워지는대화/07.png?v=7f04851a70"><img src="07-마음이채워지는대화/07.png?v=7f04851a70" alt="07-마음이채워지는대화 7장" loading="lazy"></a></div></section><section id="7-1" hidden><h2>7-1-친한사람에게도-못했던말을-꺼냈다</h2><p>8장 · <a href="7-1-친한사람에게도-못했던말을-꺼냈다/미리보기.html">이 편 보기</a></p><div class="grid"><a href="7-1-친한사람에게도-못했던말을-꺼냈다/01.png?v=64ef2f2fa5"><img src="7-1-친한사람에게도-못했던말을-꺼냈다/01.png?v=64ef2f2fa5" alt="7-1-친한사람에게도-못했던말을-꺼냈다 1장" loading="lazy"></a><a href="7-1-친한사람에게도-못했던말을-꺼냈다/02.png?v=268a2c60f3"><img src="7-1-친한사람에게도-못했던말을-꺼냈다/02.png?v=268a2c60f3" alt="7-1-친한사람에게도-못했던말을-꺼냈다 2장" loading="lazy"></a><a href="7-1-친한사람에게도-못했던말을-꺼냈다/03.png?v=546cfdae7e"><img src="7-1-친한사람에게도-못했던말을-꺼냈다/03.png?v=546cfdae7e" alt="7-1-친한사람에게도-못했던말을-꺼냈다 3장" loading="lazy"></a><a href="7-1-친한사람에게도-못했던말을-꺼냈다/04.png?v=ec3f204fc7"><img src="7-1-친한사람에게도-못했던말을-꺼냈다/04.png?v=ec3f204fc7" alt="7-1-친한사람에게도-못했던말을-꺼냈다 4장" loading="lazy"></a><a href="7-1-친한사람에게도-못했던말을-꺼냈다/05.png?v=fe61a55f8c"><img src="7-1-친한사람에게도-못했던말을-꺼냈다/05.png?v=fe61a55f8c" alt="7-1-친한사람에게도-못했던말을-꺼냈다 5장" loading="lazy"></a><a href="7-1-친한사람에게도-못했던말을-꺼냈다/06.png?v=9ee9529ecf"><img src="7-1-친한사람에게도-못했던말을-꺼냈다/06.png?v=9ee9529ecf" alt="7-1-친한사람에게도-못했던말을-꺼냈다 6장" loading="lazy"></a><a href="7-1-친한사람에게도-못했던말을-꺼냈다/07.png?v=048ae1f4be"><img src="7-1-친한사람에게도-못했던말을-꺼냈다/07.png?v=048ae1f4be" alt="7-1-친한사람에게도-못했던말을-꺼냈다 7장" loading="lazy"></a><a href="7-1-친한사람에게도-못했던말을-꺼냈다/08.png?v=e48b834b40"><img src="7-1-친한사람에게도-못했던말을-꺼냈다/08.png?v=e48b834b40" alt="7-1-친한사람에게도-못했던말을-꺼냈다 8장" loading="lazy"></a></div></section><section id="7-2" hidden><h2>7-2-말하고나서야-내마음을-알았다</h2><p>8장 · <a href="7-2-말하고나서야-내마음을-알았다/미리보기.html">이 편 보기</a></p><div class="grid"><a href="7-2-말하고나서야-내마음을-알았다/01.png?v=459466cc53"><img src="7-2-말하고나서야-내마음을-알았다/01.png?v=459466cc53" alt="7-2-말하고나서야-내마음을-알았다 1장" loading="lazy"></a><a href="7-2-말하고나서야-내마음을-알았다/02.png?v=de228fa564"><img src="7-2-말하고나서야-내마음을-알았다/02.png?v=de228fa564" alt="7-2-말하고나서야-내마음을-알았다 2장" loading="lazy"></a><a href="7-2-말하고나서야-내마음을-알았다/03.png?v=a2d7ab2a9d"><img src="7-2-말하고나서야-내마음을-알았다/03.png?v=a2d7ab2a9d" alt="7-2-말하고나서야-내마음을-알았다 3장" loading="lazy"></a><a href="7-2-말하고나서야-내마음을-알았다/04.png?v=ffc8d2dd8b"><img src="7-2-말하고나서야-내마음을-알았다/04.png?v=ffc8d2dd8b" alt="7-2-말하고나서야-내마음을-알았다 4장" loading="lazy"></a><a href="7-2-말하고나서야-내마음을-알았다/05.png?v=e9c60defa1"><img src="7-2-말하고나서야-내마음을-알았다/05.png?v=e9c60defa1" alt="7-2-말하고나서야-내마음을-알았다 5장" loading="lazy"></a><a href="7-2-말하고나서야-내마음을-알았다/06.png?v=620fa4451c"><img src="7-2-말하고나서야-내마음을-알았다/06.png?v=620fa4451c" alt="7-2-말하고나서야-내마음을-알았다 6장" loading="lazy"></a><a href="7-2-말하고나서야-내마음을-알았다/07.png?v=569dfd7099"><img src="7-2-말하고나서야-내마음을-알았다/07.png?v=569dfd7099" alt="7-2-말하고나서야-내마음을-알았다 7장" loading="lazy"></a><a href="7-2-말하고나서야-내마음을-알았다/08.png?v=41411ef812"><img src="7-2-말하고나서야-내마음을-알았다/08.png?v=41411ef812" alt="7-2-말하고나서야-내마음을-알았다 8장" loading="lazy"></a></div></section><section id="7-3" hidden><h2>7-3-생각이다른데도-대화가편했다</h2><p>8장 · <a href="7-3-생각이다른데도-대화가편했다/미리보기.html">이 편 보기</a></p><div class="grid"><a href="7-3-생각이다른데도-대화가편했다/01.png?v=4daec09531"><img src="7-3-생각이다른데도-대화가편했다/01.png?v=4daec09531" alt="7-3-생각이다른데도-대화가편했다 1장" loading="lazy"></a><a href="7-3-생각이다른데도-대화가편했다/02.png?v=5244f608b3"><img src="7-3-생각이다른데도-대화가편했다/02.png?v=5244f608b3" alt="7-3-생각이다른데도-대화가편했다 2장" loading="lazy"></a><a href="7-3-생각이다른데도-대화가편했다/03.png?v=17dc23714d"><img src="7-3-생각이다른데도-대화가편했다/03.png?v=17dc23714d" alt="7-3-생각이다른데도-대화가편했다 3장" loading="lazy"></a><a href="7-3-생각이다른데도-대화가편했다/04.png?v=2b78159773"><img src="7-3-생각이다른데도-대화가편했다/04.png?v=2b78159773" alt="7-3-생각이다른데도-대화가편했다 4장" loading="lazy"></a><a href="7-3-생각이다른데도-대화가편했다/05.png?v=b54261920a"><img src="7-3-생각이다른데도-대화가편했다/05.png?v=b54261920a" alt="7-3-생각이다른데도-대화가편했다 5장" loading="lazy"></a><a href="7-3-생각이다른데도-대화가편했다/06.png?v=5a5409cac8"><img src="7-3-생각이다른데도-대화가편했다/06.png?v=5a5409cac8" alt="7-3-생각이다른데도-대화가편했다 6장" loading="lazy"></a><a href="7-3-생각이다른데도-대화가편했다/07.png?v=15a74822e1"><img src="7-3-생각이다른데도-대화가편했다/07.png?v=15a74822e1" alt="7-3-생각이다른데도-대화가편했다 7장" loading="lazy"></a><a href="7-3-생각이다른데도-대화가편했다/08.png?v=3c578579ec"><img src="7-3-생각이다른데도-대화가편했다/08.png?v=3c578579ec" alt="7-3-생각이다른데도-대화가편했다 8장" loading="lazy"></a></div></section><section id="7-4" hidden><h2>7-4-쌓아두던책을-펼치게됐다</h2><p>8장 · <a href="7-4-쌓아두던책을-펼치게됐다/미리보기.html">이 편 보기</a></p><div class="grid"><a href="7-4-쌓아두던책을-펼치게됐다/01.png?v=db281463e6"><img src="7-4-쌓아두던책을-펼치게됐다/01.png?v=db281463e6" alt="7-4-쌓아두던책을-펼치게됐다 1장" loading="lazy"></a><a href="7-4-쌓아두던책을-펼치게됐다/02.png?v=2eeb449bf7"><img src="7-4-쌓아두던책을-펼치게됐다/02.png?v=2eeb449bf7" alt="7-4-쌓아두던책을-펼치게됐다 2장" loading="lazy"></a><a href="7-4-쌓아두던책을-펼치게됐다/03.png?v=eb45c9f756"><img src="7-4-쌓아두던책을-펼치게됐다/03.png?v=eb45c9f756" alt="7-4-쌓아두던책을-펼치게됐다 3장" loading="lazy"></a><a href="7-4-쌓아두던책을-펼치게됐다/04.png?v=621b312949"><img src="7-4-쌓아두던책을-펼치게됐다/04.png?v=621b312949" alt="7-4-쌓아두던책을-펼치게됐다 4장" loading="lazy"></a><a href="7-4-쌓아두던책을-펼치게됐다/05.png?v=038d7d4cd8"><img src="7-4-쌓아두던책을-펼치게됐다/05.png?v=038d7d4cd8" alt="7-4-쌓아두던책을-펼치게됐다 5장" loading="lazy"></a><a href="7-4-쌓아두던책을-펼치게됐다/06.png?v=ff6a914471"><img src="7-4-쌓아두던책을-펼치게됐다/06.png?v=ff6a914471" alt="7-4-쌓아두던책을-펼치게됐다 6장" loading="lazy"></a><a href="7-4-쌓아두던책을-펼치게됐다/07.png?v=88f6fe236f"><img src="7-4-쌓아두던책을-펼치게됐다/07.png?v=88f6fe236f" alt="7-4-쌓아두던책을-펼치게됐다 7장" loading="lazy"></a><a href="7-4-쌓아두던책을-펼치게됐다/08.png?v=d5367575fe"><img src="7-4-쌓아두던책을-펼치게됐다/08.png?v=d5367575fe" alt="7-4-쌓아두던책을-펼치게됐다 8장" loading="lazy"></a></div></section><section id="7-5" hidden><h2>7-5-혼자였다면-못했을생각들이-생겼다</h2><p>9장 · <a href="7-5-혼자였다면-못했을생각들이-생겼다/미리보기.html">이 편 보기</a></p><div class="grid"><a href="7-5-혼자였다면-못했을생각들이-생겼다/01.png?v=beee2837f3"><img src="7-5-혼자였다면-못했을생각들이-생겼다/01.png?v=beee2837f3" alt="7-5-혼자였다면-못했을생각들이-생겼다 1장" loading="lazy"></a><a href="7-5-혼자였다면-못했을생각들이-생겼다/02.png?v=dbdb467c90"><img src="7-5-혼자였다면-못했을생각들이-생겼다/02.png?v=dbdb467c90" alt="7-5-혼자였다면-못했을생각들이-생겼다 2장" loading="lazy"></a><a href="7-5-혼자였다면-못했을생각들이-생겼다/03.png?v=ce06197ff1"><img src="7-5-혼자였다면-못했을생각들이-생겼다/03.png?v=ce06197ff1" alt="7-5-혼자였다면-못했을생각들이-생겼다 3장" loading="lazy"></a><a href="7-5-혼자였다면-못했을생각들이-생겼다/04.png?v=ff2d36201b"><img src="7-5-혼자였다면-못했을생각들이-생겼다/04.png?v=ff2d36201b" alt="7-5-혼자였다면-못했을생각들이-생겼다 4장" loading="lazy"></a><a href="7-5-혼자였다면-못했을생각들이-생겼다/05.png?v=ee09d364d9"><img src="7-5-혼자였다면-못했을생각들이-생겼다/05.png?v=ee09d364d9" alt="7-5-혼자였다면-못했을생각들이-생겼다 5장" loading="lazy"></a><a href="7-5-혼자였다면-못했을생각들이-생겼다/06.png?v=91441a97fa"><img src="7-5-혼자였다면-못했을생각들이-생겼다/06.png?v=91441a97fa" alt="7-5-혼자였다면-못했을생각들이-생겼다 6장" loading="lazy"></a><a href="7-5-혼자였다면-못했을생각들이-생겼다/07.png?v=6c60c5229f"><img src="7-5-혼자였다면-못했을생각들이-생겼다/07.png?v=6c60c5229f" alt="7-5-혼자였다면-못했을생각들이-생겼다 7장" loading="lazy"></a><a href="7-5-혼자였다면-못했을생각들이-생겼다/08.png?v=36e4ffed61"><img src="7-5-혼자였다면-못했을생각들이-생겼다/08.png?v=36e4ffed61" alt="7-5-혼자였다면-못했을생각들이-생겼다 8장" loading="lazy"></a><a href="7-5-혼자였다면-못했을생각들이-생겼다/09.png?v=bb17efc276"><img src="7-5-혼자였다면-못했을생각들이-생겼다/09.png?v=bb17efc276" alt="7-5-혼자였다면-못했을생각들이-생겼다 9장" loading="lazy"></a></div></section><section id="8" hidden><h2>8편 · 독서모임을 하고 생긴 변화</h2><p>7장 · <a href="08-일상의변화/미리보기.html">이 편 보기</a></p><div class="grid"><a href="08-일상의변화/01.png?v=23f6775a01"><img src="08-일상의변화/01.png?v=23f6775a01" alt="08-일상의변화 1장" loading="lazy"></a><a href="08-일상의변화/02.png?v=1e1b2d4c82"><img src="08-일상의변화/02.png?v=1e1b2d4c82" alt="08-일상의변화 2장" loading="lazy"></a><a href="08-일상의변화/03.png?v=e849ab9551"><img src="08-일상의변화/03.png?v=e849ab9551" alt="08-일상의변화 3장" loading="lazy"></a><a href="08-일상의변화/04.png?v=348339682b"><img src="08-일상의변화/04.png?v=348339682b" alt="08-일상의변화 4장" loading="lazy"></a><a href="08-일상의변화/05.png?v=f0ec7dada1"><img src="08-일상의변화/05.png?v=f0ec7dada1" alt="08-일상의변화 5장" loading="lazy"></a><a href="08-일상의변화/06.png?v=713523d819"><img src="08-일상의변화/06.png?v=713523d819" alt="08-일상의변화 6장" loading="lazy"></a><a href="08-일상의변화/07.png?v=fcbc16c5d3"><img src="08-일상의변화/07.png?v=fcbc16c5d3" alt="08-일상의변화 7장" loading="lazy"></a></div></section></main><script>
 const episodes = Array.from(document.querySelectorAll('main > section'));
 const episodeLinks = Array.from(document.querySelectorAll('nav a'));
 function showEpisode() {

diff --git a/docs/social/01-인간관계/미리보기.html b/docs/social/01-인간관계/미리보기.html
@@ -1,7 +1,7 @@
-<!doctype html><html lang="ko"><meta charset="utf-8"><meta name="viewport" content="width=device-width,initial-scale=1"><title>인간관계란 무엇일까 · 1편</title>
+<!doctype html><html lang="ko"><meta charset="utf-8"><meta name="viewport" content="width=device-width,initial-scale=1"><title>내가 먼저 연락하지 않으면 · 1편</title>
 <style>:root{--cream:#f7f3e7;--paper:#fffdf7;--ink:#3b3a34;--forest:#5b6b57;--line:rgba(59,58,52,.14)}*{box-sizing:border-box}body{margin:0;background:var(--cream);color:var(--ink);font-family:sans-serif}main{max-width:1100px;margin:auto;padding:32px 24px}h1{font-size:30px}.grid{display:grid;grid-template-columns:repeat(2,minmax(0,1fr));gap:24px}figure{margin:0;background:var(--paper);border:1px solid var(--line)}img{width:100%;height:auto;display:block}figcaption{padding:12px;color:var(--forest)}@media(max-width:820px){.grid{grid-template-columns:1fr}}@media(max-width:430px){main{padding:20px 12px}h1{font-size:24px}}</style>
-<main><p>READ ME · 리미 인스타툰 1편</p><h1>인간관계란 무엇일까</h1><div class="grid">
-<figure><img src="01.png?v=f6530659d1" alt="1편 1장"><figcaption>1 / 10</figcaption></figure>
+<main><p>READ ME · 리미 인스타툰 1편</p><h1>내가 먼저 연락하지 않으면</h1><div class="grid">
+<figure><img src="01.png?v=9c29254c10" alt="1편 1장"><figcaption>1 / 10</figcaption></figure>
 <figure><img src="02.png?v=2af6beccf6" alt="1편 2장"><figcaption>2 / 10</figcaption></figure>
 <figure><img src="03.png?v=92ff636abc" alt="1편 3장"><figcaption>3 / 10</figcaption></figure>
 <figure><img src="04.png?v=a4715f626d" alt="1편 4장"><figcaption>4 / 10</figcaption></figure>
